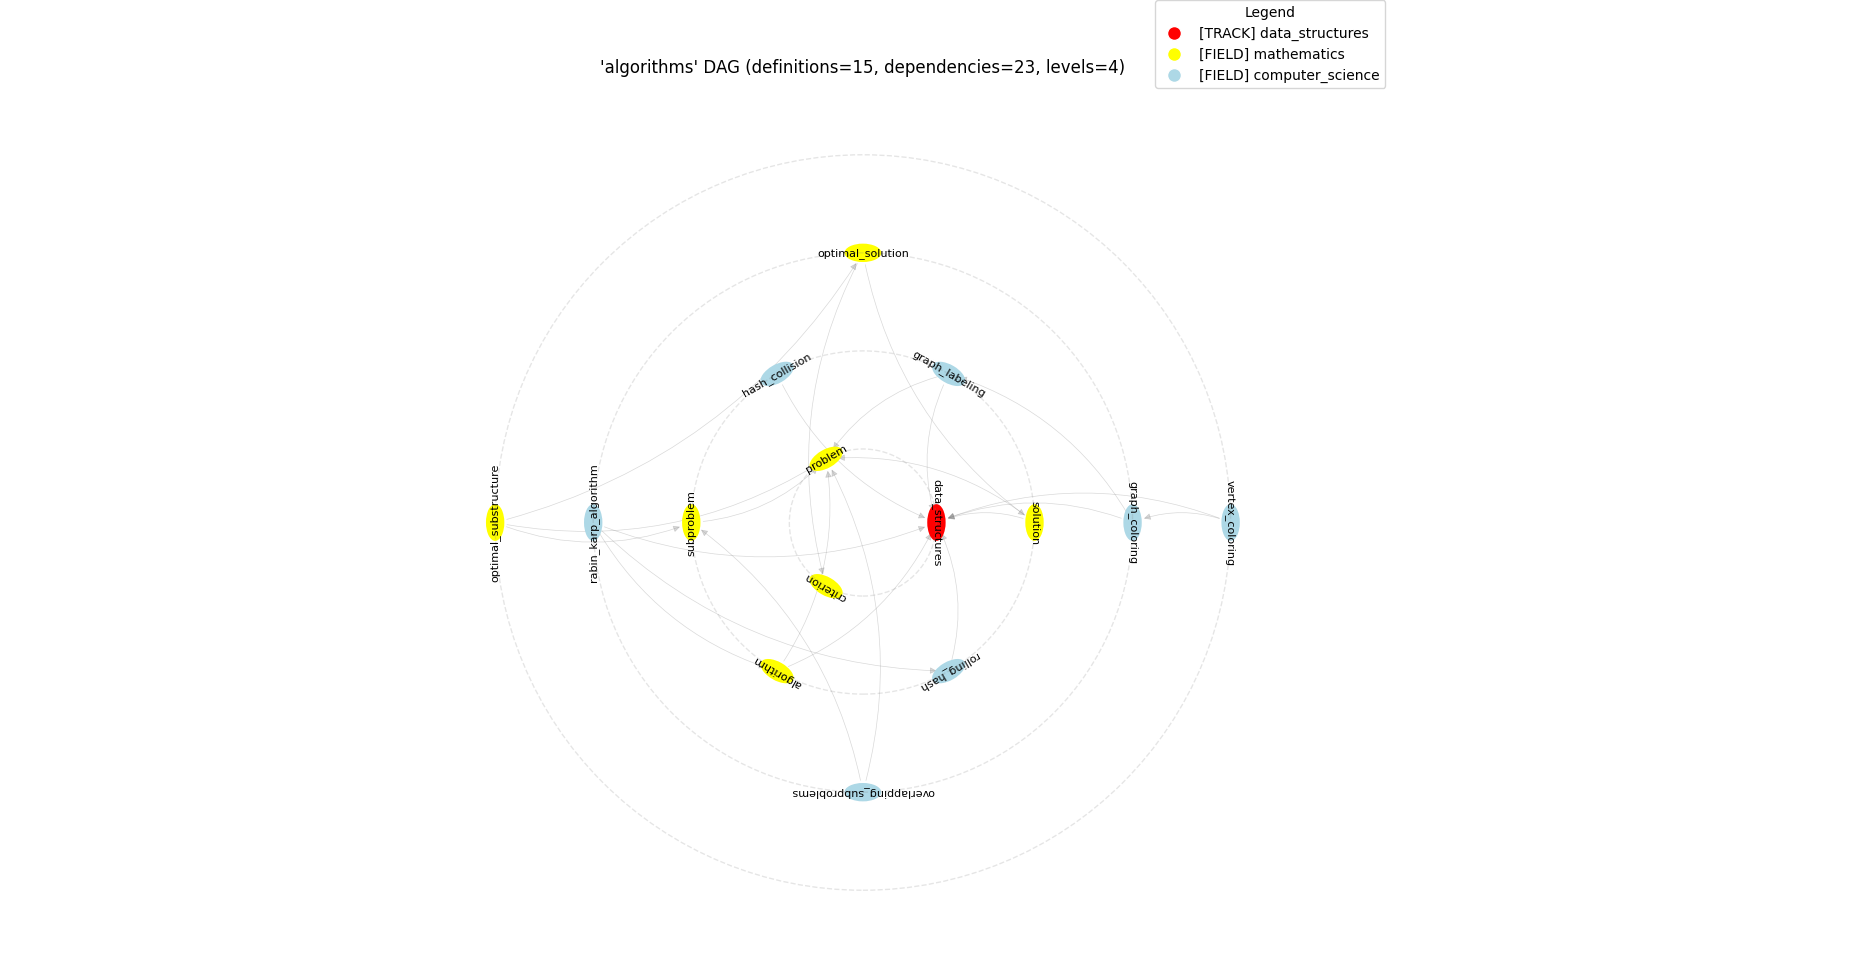
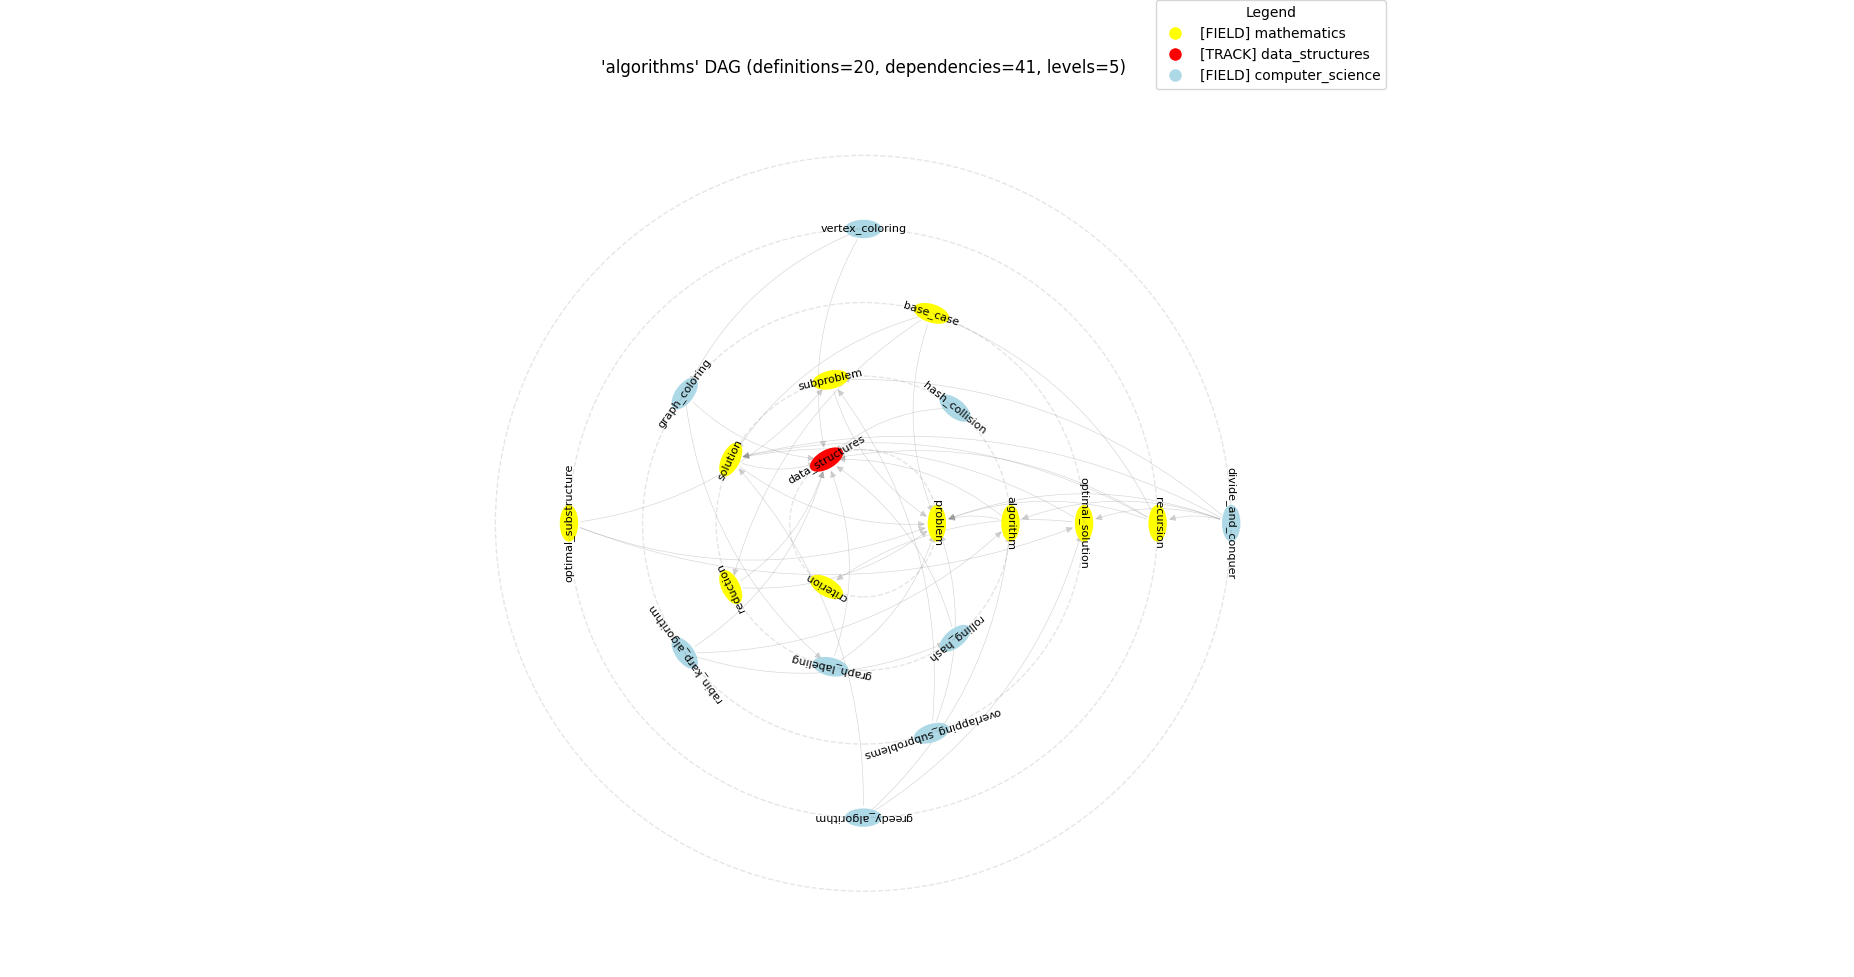
continue

diff --git a/src/definit/db/md.py b/src/definit/db/md.py
@@ -31,10 +31,13 @@ class DatabaseMd(DatabaseAbstract):
     Database with markdown files as a source.
     """
 
-    def __init__(self, data_md_path: Path = CONFIG.DATA_PATH_MD) -> None:
+    def __init__(self, data_md_path: Path = CONFIG.DATA_PATH_MD, load_cache: bool = False) -> None:
         self._data_md_path = data_md_path
         self._index_cache: dict[Field, dict[str, Path]] = dict()
         self._definition_cache: dict[DefinitionKey, str] = dict()
+
+        if load_cache:
+            self.load_cache()
 
     def get_dag(self, track: Track | None = None) -> DAG:
         if track is None:
@@ -47,12 +50,12 @@ class DatabaseMd(DatabaseAbstract):
         return self._get_dag(definitions=definitions)
 
     def get_dag_for_definition(self, root: DefinitionKey) -> DAG:
-        self._load_index_cache(field=root.field)
+        self._load_field_cache(field=root.field)
         definitions = {root}
         return self._get_dag(definitions=definitions)
 
     def get_index(self, field: Field | None = None) -> set[DefinitionKey]:
-        self._cache_index(field=field)
+        self.load_cache(field=field)
         index: set[DefinitionKey] = set()
 
         for field, field_definitions in self._index_cache.items():
@@ -65,7 +68,7 @@ class DatabaseMd(DatabaseAbstract):
         """
         Get the definition for a given key.
         """
-        self._load_index_cache(field=definition_key.field)
+        self._load_field_cache(field=definition_key.field)
         return self._get_definition(
             definition_key=definition_key,
             parent_definition_key=None,
@@ -114,13 +117,13 @@ class DatabaseMd(DatabaseAbstract):
 
         return dag
 
-    def _cache_index(self, field: Field | None = None) -> None:
+    def load_cache(self, field: Field | None = None) -> None:
         fields = [field for field in Field] if field is None else [field]
 
         for field in fields:
-            self._load_index_cache(field=field)
+            self._load_field_cache(field=field)
 
-    def _load_index_cache(self, field: Field) -> None:
+    def _load_field_cache(self, field: Field) -> None:
         if field in self._index_cache:
             return
 
@@ -143,6 +146,11 @@ class DatabaseMd(DatabaseAbstract):
                         .with_suffix(".md")
                     )
                     self._index_cache[field][definition_name] = definition_path
+                    # cache the definition for quick access
+                    self._get_definition(
+                        definition_key=DefinitionKey(name=definition_name, field=field),
+                        parent_definition_key=None,
+                    )
 
     def _get_definition(
         self,

diff --git a/src/definit/test/data_parser/test_data_parser_md.py b/src/definit/test/data_parser/test_data_parser_md.py
@@ -6,9 +6,8 @@ from definit.field import Field
 class TestDataParserMD:
     def test_list_definition(self) -> None:
         # Given
-        data_parser = DatabaseMd()
+        data_parser = DatabaseMd(load_cache=True)
         definition_key_list = DefinitionKey(name="list", field=Field.COMPUTER_SCIENCE)
-        data_parser._cache_index()
         # When
         dag = data_parser.get_dag_for_definition(root=definition_key_list)
         # Then
@@ -18,10 +17,10 @@ class TestDataParserMD:
 
     def test_parse_all_definitions(self) -> None:
         # Given
-        data_parser = DatabaseMd()
+        data_parser = DatabaseMd(load_cache=True)
         # When
         index = data_parser.get_index()
         # Then
         assert index is not None
-        assert len(index) == 84
+        assert len(index) == 89
         [data_parser.get_dag_for_definition(root=definition) for definition in index]

diff --git a/src/definit/test/visualization/test_networkx.py b/src/definit/test/visualization/test_networkx.py
@@ -13,7 +13,7 @@ class TestNetworkx:
         # Given
         definition_key = DefinitionKey(name="trie", field=Field.COMPUTER_SCIENCE)
         data_parser = DatabaseMd()
-        data_parser._cache_index()
+        data_parser.load_cache()
         dag = data_parser.get_dag_for_definition(root=definition_key)
         dag_visualization = DAGVisualizationNetworkX()
         # When
@@ -25,8 +25,8 @@ class TestNetworkx:
     def test_selected_track_circle_visualization(self) -> None:
         # Given
         data_parser = DatabaseMd()
-        data_parser._cache_index()
-        track = Track.DATA_STRUCTURES
+        data_parser.load_cache()
+        track = Track.ALGORITHMS
         dag = data_parser.get_dag(track=track)
         dag_visualization = DAGVisualizationNetworkX()
         # When

diff --git a/README.md b/README.md
@@ -71,10 +71,13 @@ will improve the quality and clarity of the communication.
 It can also be used by LLMs (Language Models) as a solid training/tuning data or part of prompting.
 
 If one would like to learn a specific part of the knowledge,
-the "Track" concept can be used. Figure 2. shows an example of a "Track" for data structures.
+the "Track" concept can be used. Figure 2-3. show DAG representation of track's definitions.
 
 !['data_structures' DAG](./dag_track_data_structures.png)  
 Figure 2. Circular DAG visualization of 'data_structures' track.
+
+!['algorithms' DAG](./dag_track_algorithms.png)  
+Figure 3. Circular DAG visualization of 'algorithms' track.
 
 ## How?
 
